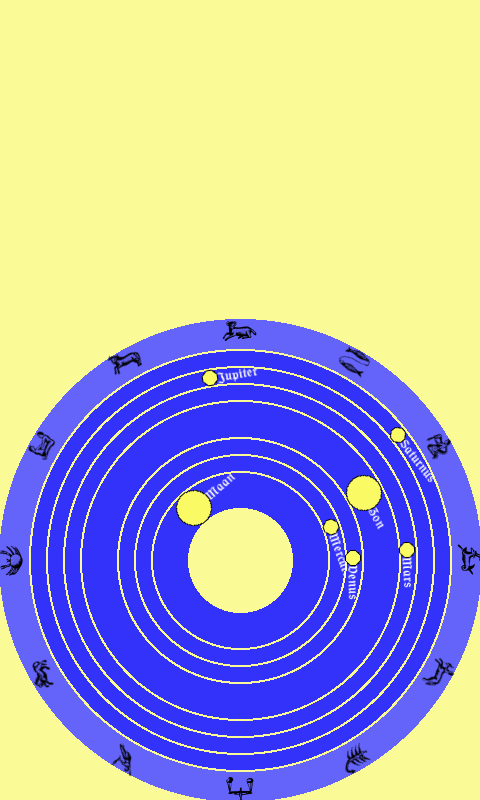
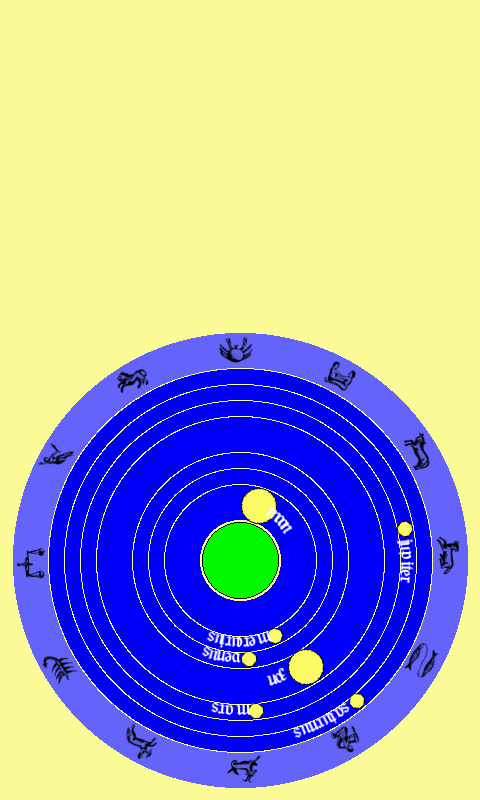
plaatje met dierenriem en beschrijbing in md bijgewerkt

diff --git a/ptolemeus.md b/ptolemeus.md
@@ -4,6 +4,9 @@ In het middeleeuwse beeld van het heelal staat de Aarde onwrikbaar in het midden
 omgeven door _sferen_ waarin Zon, Maan en de planeten rond de Aarde draaien. Voor 
 een middeleeuwer gaven Zon en Maan de tijd en de datum aan. De tijden waarop de
 monikken in een klooster samen hun diensten hielden werden bepaald door de stand 
-van de Zon.
+van de Zon. Als de Zon opkwam was het tijd voor _lauden_, de dienst waarmee de
+dag begonnen werd. Ging de Zon onder dan was het tijd voor de _vespers_ dienst. 
+De reis van de Zon langs de dierenriem gaf aan wat de dag in het jaar was. 
 
-Dit script laat zien waar Zon, Maan en de planeten staan ten opzichte van de waarnemer. 
+Dit script laat zien waar Zon, Maan en de planeten staan ten opzichte van 
+de waarnemer. Het is gemaakt voor een Pimoroni Inky e-ink scherm
